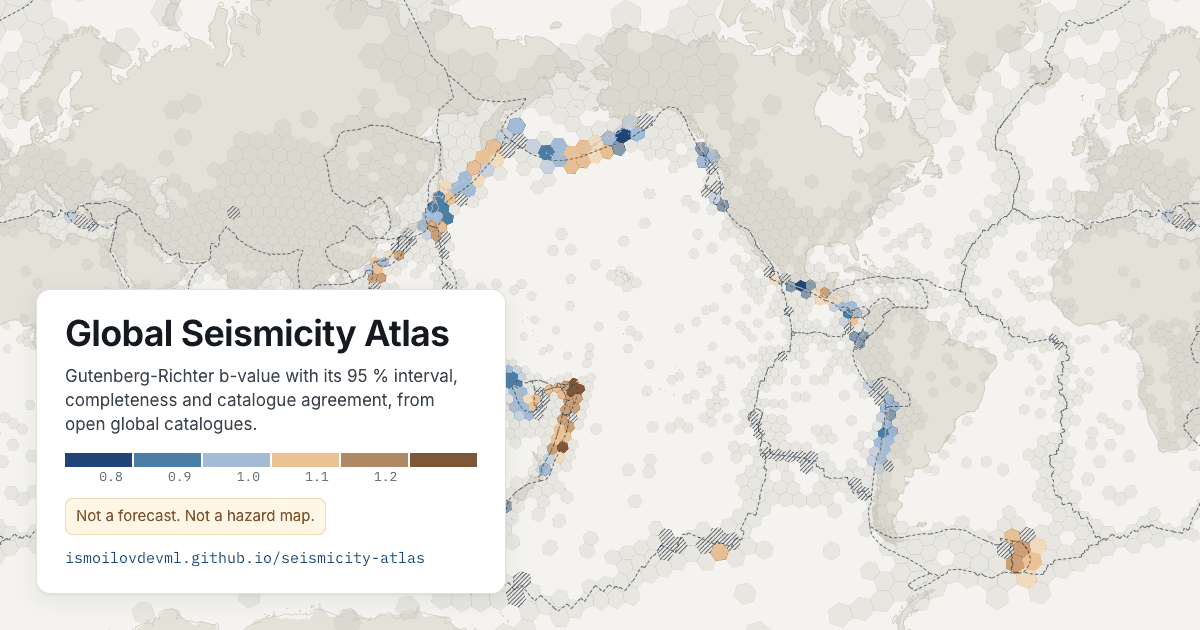
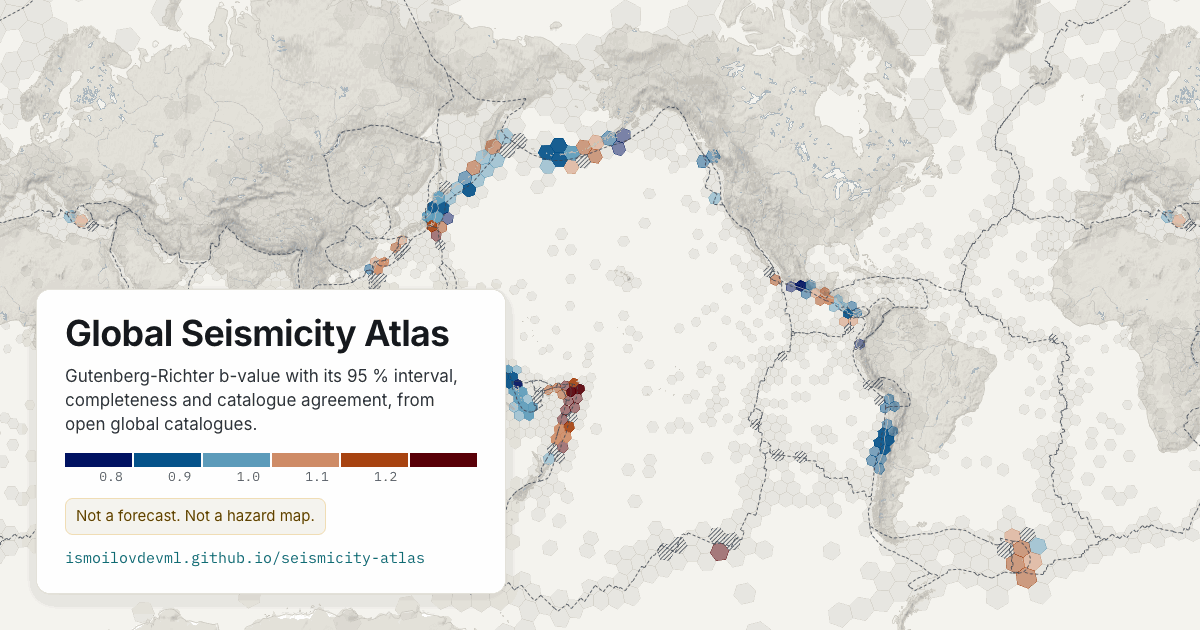
README screenshots from one script (docs/img/readme/); remove the unreferenced v0.2/v0.3 screenshots and their scripts; social card with the new b classes

diff --git a/site/index.html b/site/index.html
@@ -17,7 +17,7 @@
 <meta property="og:image" content="https://ismoilovdevml.github.io/seismicity-atlas/og-image.png">
 <meta property="og:image:width" content="1200">
 <meta property="og:image:height" content="630">
-<meta property="og:image:alt" content="World map of Gutenberg-Richter b-values around the Pacific, coloured from blue (low) to orange-brown (high), with the atlas title.">
+<meta property="og:image:alt" content="World map of Gutenberg-Richter b-values around the Pacific, coloured from blue (low) to red-brown (high), with the atlas title.">
 <meta name="twitter:card" content="summary_large_image">
 <meta name="twitter:title" content="Global Seismicity Atlas">
 <meta name="twitter:description" content="Where earthquake-catalogue numbers can be trusted: b-value with its 95 % interval, completeness and catalogue agreement. Not a forecast.">

diff --git a/scripts/readme_numbers.py b/scripts/readme_numbers.py
@@ -1,0 +1,94 @@
+"""Write (or check) the "Key results" table of README.md from the data files, so the README never quotes stale numbers.
+
+    .venv/bin/python -I scripts/readme_numbers.py --write    # rewrite the block between the markers
+    .venv/bin/python -I scripts/readme_numbers.py --check    # exit 1 if the README block differs from the data
+
+The block sits between <!-- key-results:start --> and <!-- key-results:end --> in README.md. Every number in it comes
+from site/data/manifest.json, site/data/cells.geojson, results/prepare.json, results/atlas_globals.json and
+results/sequences.json. scripts/run_all.sh runs --write before the tests, and tests/test_readme.py runs the check, so
+the monthly data update (.github/workflows/update-data.yml) refreshes the table or fails. See docs/release.md.
+"""
+from __future__ import annotations
+
+import argparse
+import json
+import statistics
+import sys
+from pathlib import Path
+
+ROOT = Path(__file__).resolve().parents[1]
+README = ROOT / "README.md"
+START, END = "<!-- key-results:start -->", "<!-- key-results:end -->"
+
+
+def load(rel):
+    return json.loads((ROOT / rel).read_text())
+
+
+def n(v):
+    return f"{v:,}"
+
+
+def table() -> str:
+    man = load("site/data/manifest.json")
+    prep = load("results/prepare.json")
+    glob = load("results/atlas_globals.json")
+    seq = load("results/sequences.json")
+    cells = [ft["properties"] for ft in load("site/data/cells.geojson")["features"]]
+    m = prep["matching"]
+    y0, y1 = prep["iscgem_span"][0][:4], prep["iscgem_span"][1][:4]
+    c0, c1 = prep["comcat_span"][0][:4], prep["comcat_span"][1][:10]
+    gs, gd = man["global"]["b_shallow_1976_2021"], man["global"]["b_deep_1976_2021"]
+    years = f"{glob['years'][0]}–{glob['years'][1]}"
+    trusted = {d: sum(1 for p in cells if p.get(f"{d}_q") in ("A", "B")) for d in ("sh", "dp")}
+    fl = man["method"]["floors"]["sh"]
+    (p1, f1), (p2, f2) = list(fl.items())
+    mc_cc = [p["sh_mc_cc"] for p in cells if p.get("sh_mc_cc") is not None]
+    q = seq["quality_counts"]
+    b = lambda g: f"**{g['b']:.3f} [{g['ci95'][0]:.3f}, {g['ci95'][1]:.3f}]**"  # noqa: E731
+    rows = [
+        ("Events analysed", f"ISC-GEM {n(prep['iscgem_n'])} ({y0}–{y1}); ComCat M ≥ 4.5: {n(prep['comcat_n'])} ({c0}–{c1})"),
+        ("Duplicates", f"{n(m['matched'])} of {n(m['iscgem_in_overlap'])} ISC-GEM events in {c0}–{y1} matched in ComCat "
+                       f"({100 * m['matched'] / m['iscgem_in_overlap']:.1f} %); median offset {m['dt_s_median']:.1f} s, {m['dist_km_median']:.1f} km"),
+        (f"Global b, ISC-GEM direct Mw {years}", f"shallow ≤ 70 km: {b(gs)}; deeper: {b(gd)}"),
+        ("Cells with a trusted b (95 % interval ≤ 0.5)", f"{n(trusted['sh'])} shallow and {n(trusted['dp'])} deeper, out of {n(glob['n_cells'])} cells that hold events"),
+        ("Global completeness (ISC-GEM direct Mw, shallow)", f"Mw {f1['floor']:.1f} for {p1.replace('-', '–')}, {f2['floor']:.1f} for {p2.replace('-', '–')}"),
+        ("USGS M4.5+ feed, as served", f"median Mc {statistics.median(mc_cc):.1f} (mostly mb) over {n(len(mc_cc))} shallow cells, 2010 to the cut-off"),
+        ("Omori fits", f"{seq['n']} sequences since 1990: {q['A']} quality A, {q['B']} B, {q['C']} C, {q['insufficient']} insufficient"),
+    ]
+    out = [START, f"## Key results (data cut-off {man['data_cutoff_utc']})", "",
+           "Generated from the data files by `scripts/readme_numbers.py`; do not edit by hand.", "",
+           "| | Value |", "|---|---|"]
+    out += [f"| {k} | {v} |" for k, v in rows]
+    out.append(END)
+    return "\n".join(out)
+
+
+def splice(text: str, block: str) -> str:
+    i, j = text.index(START), text.index(END) + len(END)
+    return text[:i] + block + text[j:]
+
+
+def main():
+    ap = argparse.ArgumentParser()
+    g = ap.add_mutually_exclusive_group(required=True)
+    g.add_argument("--write", action="store_true")
+    g.add_argument("--check", action="store_true")
+    a = ap.parse_args()
+    text = README.read_text()
+    new = splice(text, table())
+    if a.check:
+        if new != text:
+            print("README.md key results differ from the data; run scripts/readme_numbers.py --write", file=sys.stderr)
+            sys.exit(1)
+        print("README key results match the data")
+        return
+    if new != text:
+        README.write_text(new)
+        print("README.md key results updated")
+    else:
+        print("README.md key results already current")
+
+
+if __name__ == "__main__":
+    main()

diff --git a/tests/e2e/tools/og_image.py b/tests/e2e/tools/og_image.py
@@ -41,7 +41,7 @@ CARD_CSS = """
 
 CARD_JS = """() => {
   const css = getComputedStyle(document.documentElement);
-  const colors = ['#1f4e8c', '#4f7fb8', '#9db8d6', '#ebc08f', '#d98a3d', '#a4501b'];
+  const colors = ['#001261', '#05528a', '#5d9cbb', '#cf8c66', '#a74310', '#590008']; // layers.js B_LIGHT (Crameri vik)
   const card = document.createElement('div');
   card.className = 'og-card';
   card.innerHTML = `<h1>Global Seismicity Atlas</h1>
@@ -70,7 +70,7 @@ def main():
         ctx = b.new_context(viewport={"width": 1200, "height": 630}, color_scheme="light", device_scale_factor=1)
         ctx.add_init_script("window.__gsaTestHook = (m) => { window.__map = m; };")
         pg = ctx.new_page()
-        pg.goto(f"http://127.0.0.1:{srv.server_port}/#v=map&l=b&d=sh&at=1.1/8/-165")
+        pg.goto(f"http://127.0.0.1:{srv.server_port}/#v=map&l=b&d=sh&at=1.1/8/-165&g=0&mode=pro&lang=en")
         pg.wait_for_selector("#map-status", state="hidden", timeout=60000)
         pg.add_style_tag(content=CARD_CSS)
         pg.evaluate(CARD_JS)
@@ -82,7 +82,7 @@ def main():
     srv.shutdown()
     try:
         from PIL import Image
-        im = Image.open(io.BytesIO(png)).convert("RGB").quantize(colors=96, method=Image.Quantize.MEDIANCUT, dither=Image.Dither.NONE)
+        im = Image.open(io.BytesIO(png)).convert("RGB").quantize(colors=256, method=Image.Quantize.FASTOCTREE)
         im.save(OUT, optimize=True)
     except ImportError:
         OUT.write_bytes(png)

diff --git a/tests/e2e/tools/readme_shots.py b/tests/e2e/tools/readme_shots.py
@@ -44,7 +44,7 @@ SHOTS = {
     "scientist": ("readme", "#v=map&l=b&d=sh&c=822f5ffffffffff&at=2.7/30/150&lang=en", (1440, 900), "light", "pro",
                   "#panel-body .chart-svg", None),
     "ongoing": ("readme", "#v=monitor&mode=pro&lang=en", (1440, 900), "light", "pro", ".mon-seq .chart-svg", None),
-    "depth3d": ("readme", "#v=depth&p3=turkey&lang=en", (1440, 900), "light", "pro", "canvas.d3-canvas[data-view]", None),
+    "depth3d": ("readme", "#v=depth&p3=turkey&e3=5&lang=en", (1440, 900), "light", "pro", "canvas.d3-canvas[data-view]", None),
     "learn": ("readme", "#v=learn&t=induced-seismicity&mode=simple&lang=en", (1440, 900), "light", None,
               ".lr-diagram[data-ready='1']", None),
     "groningen": ("readme", "#v=cases&cs=groningen&mode=pro&lang=en", (1440, 900), "light", "pro",
